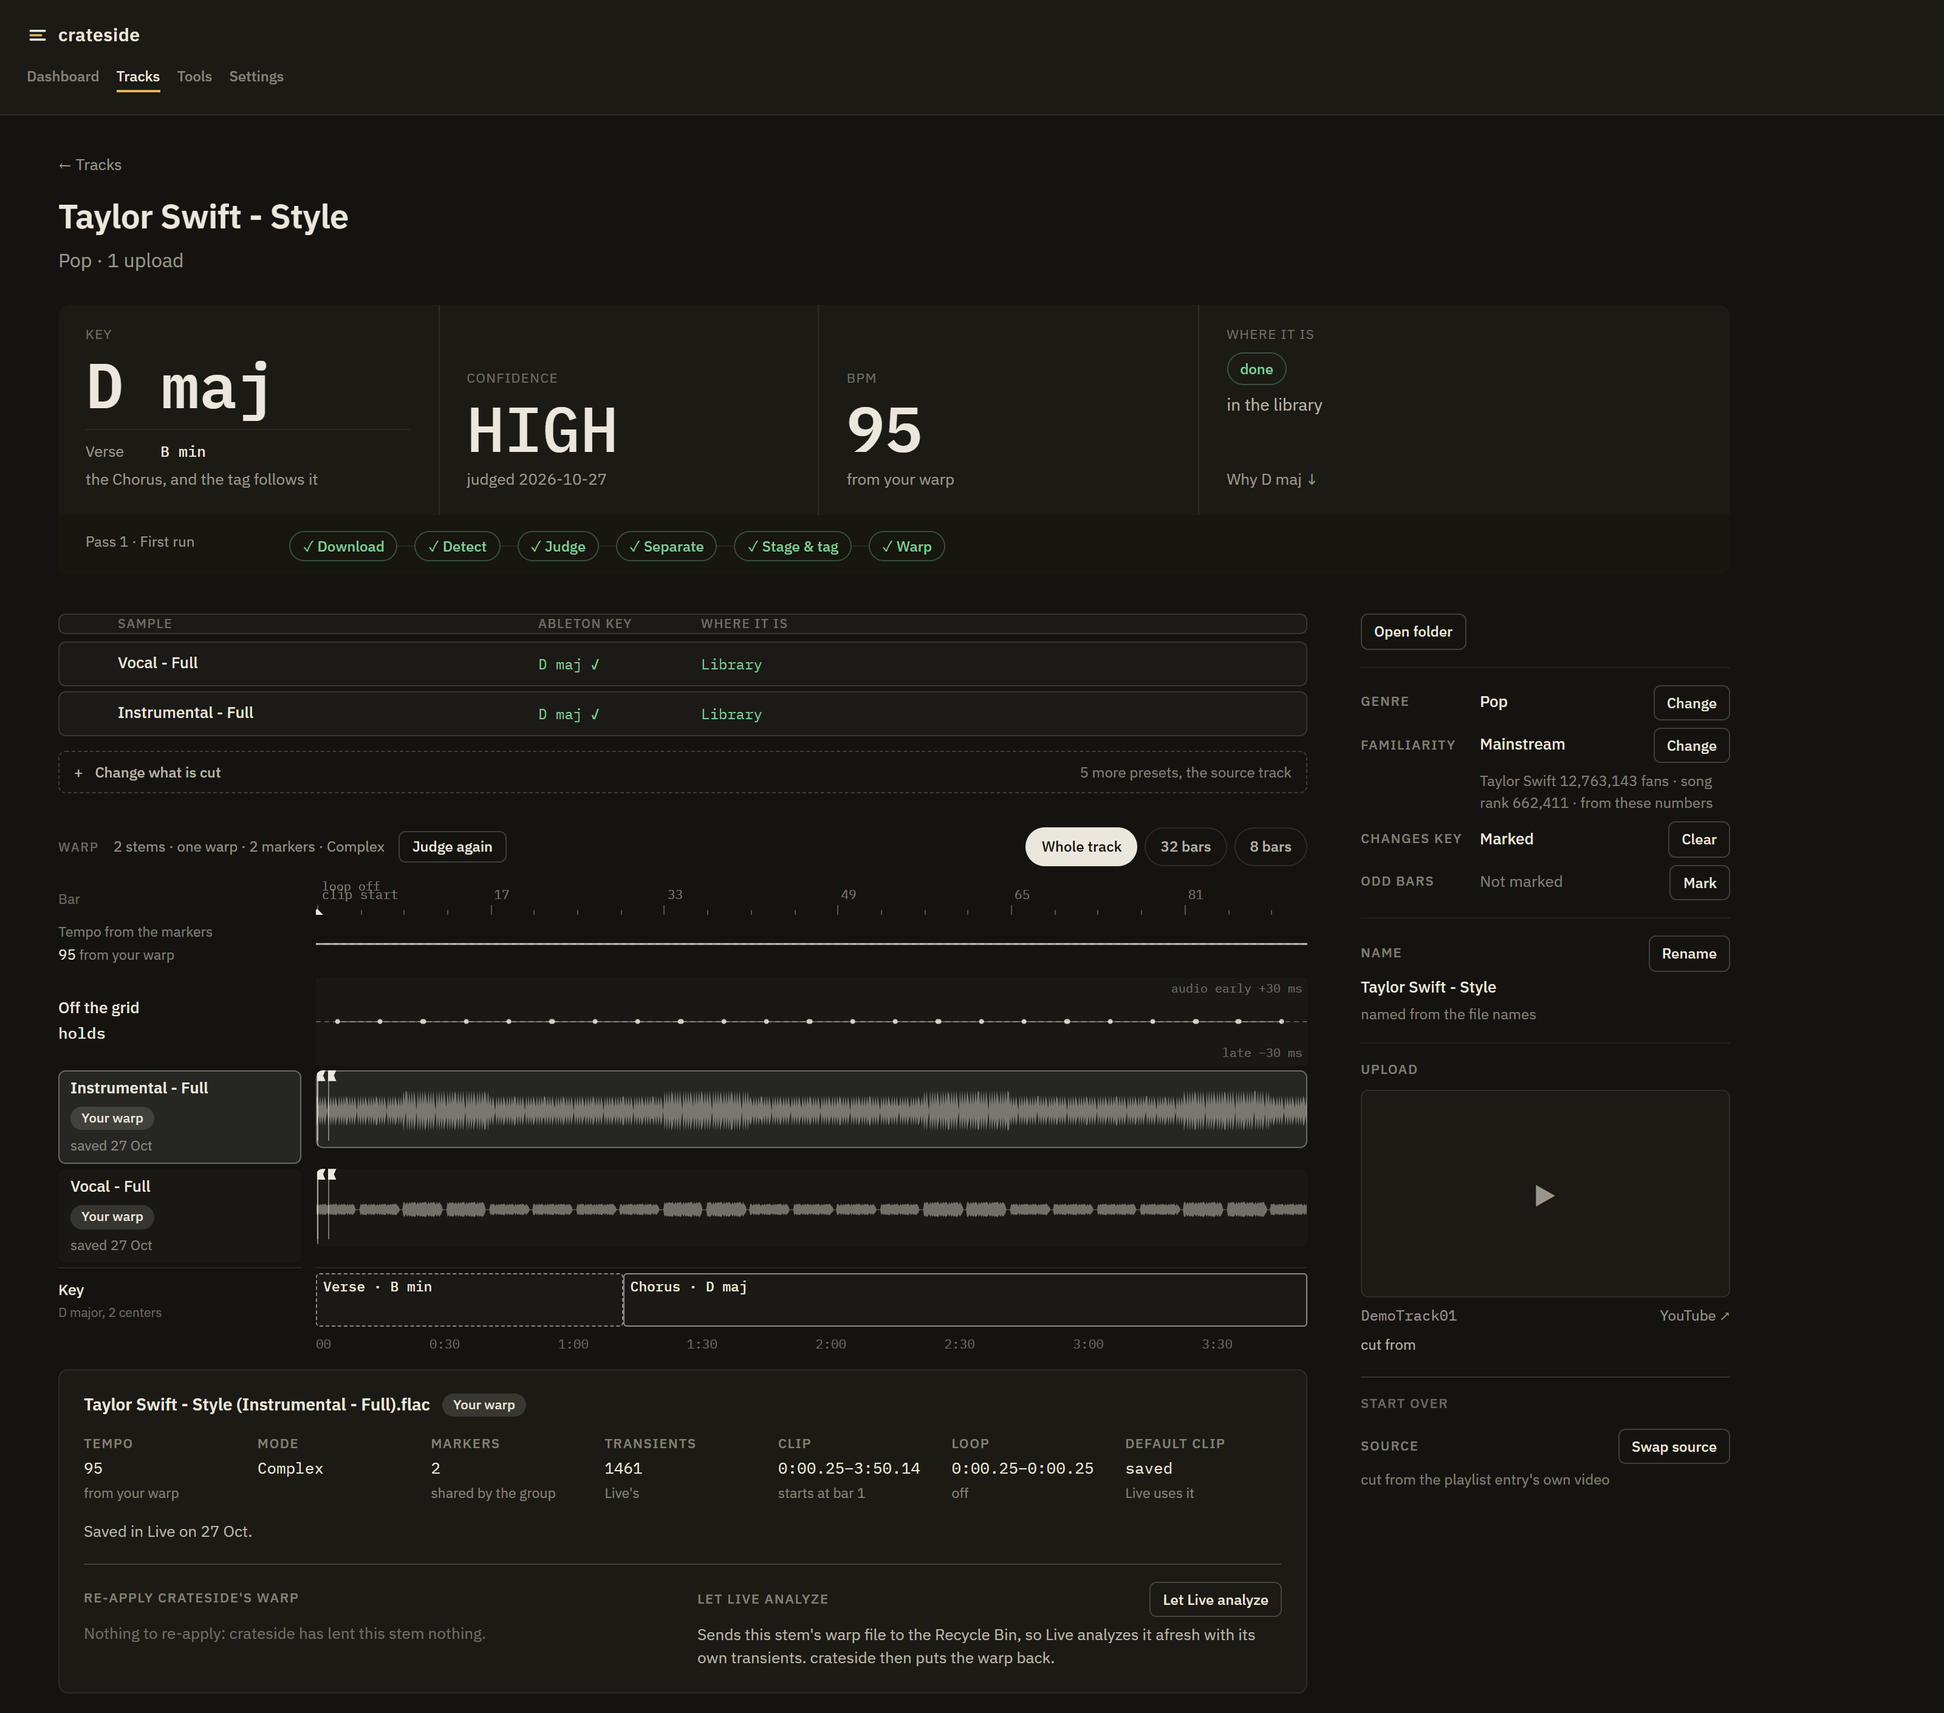
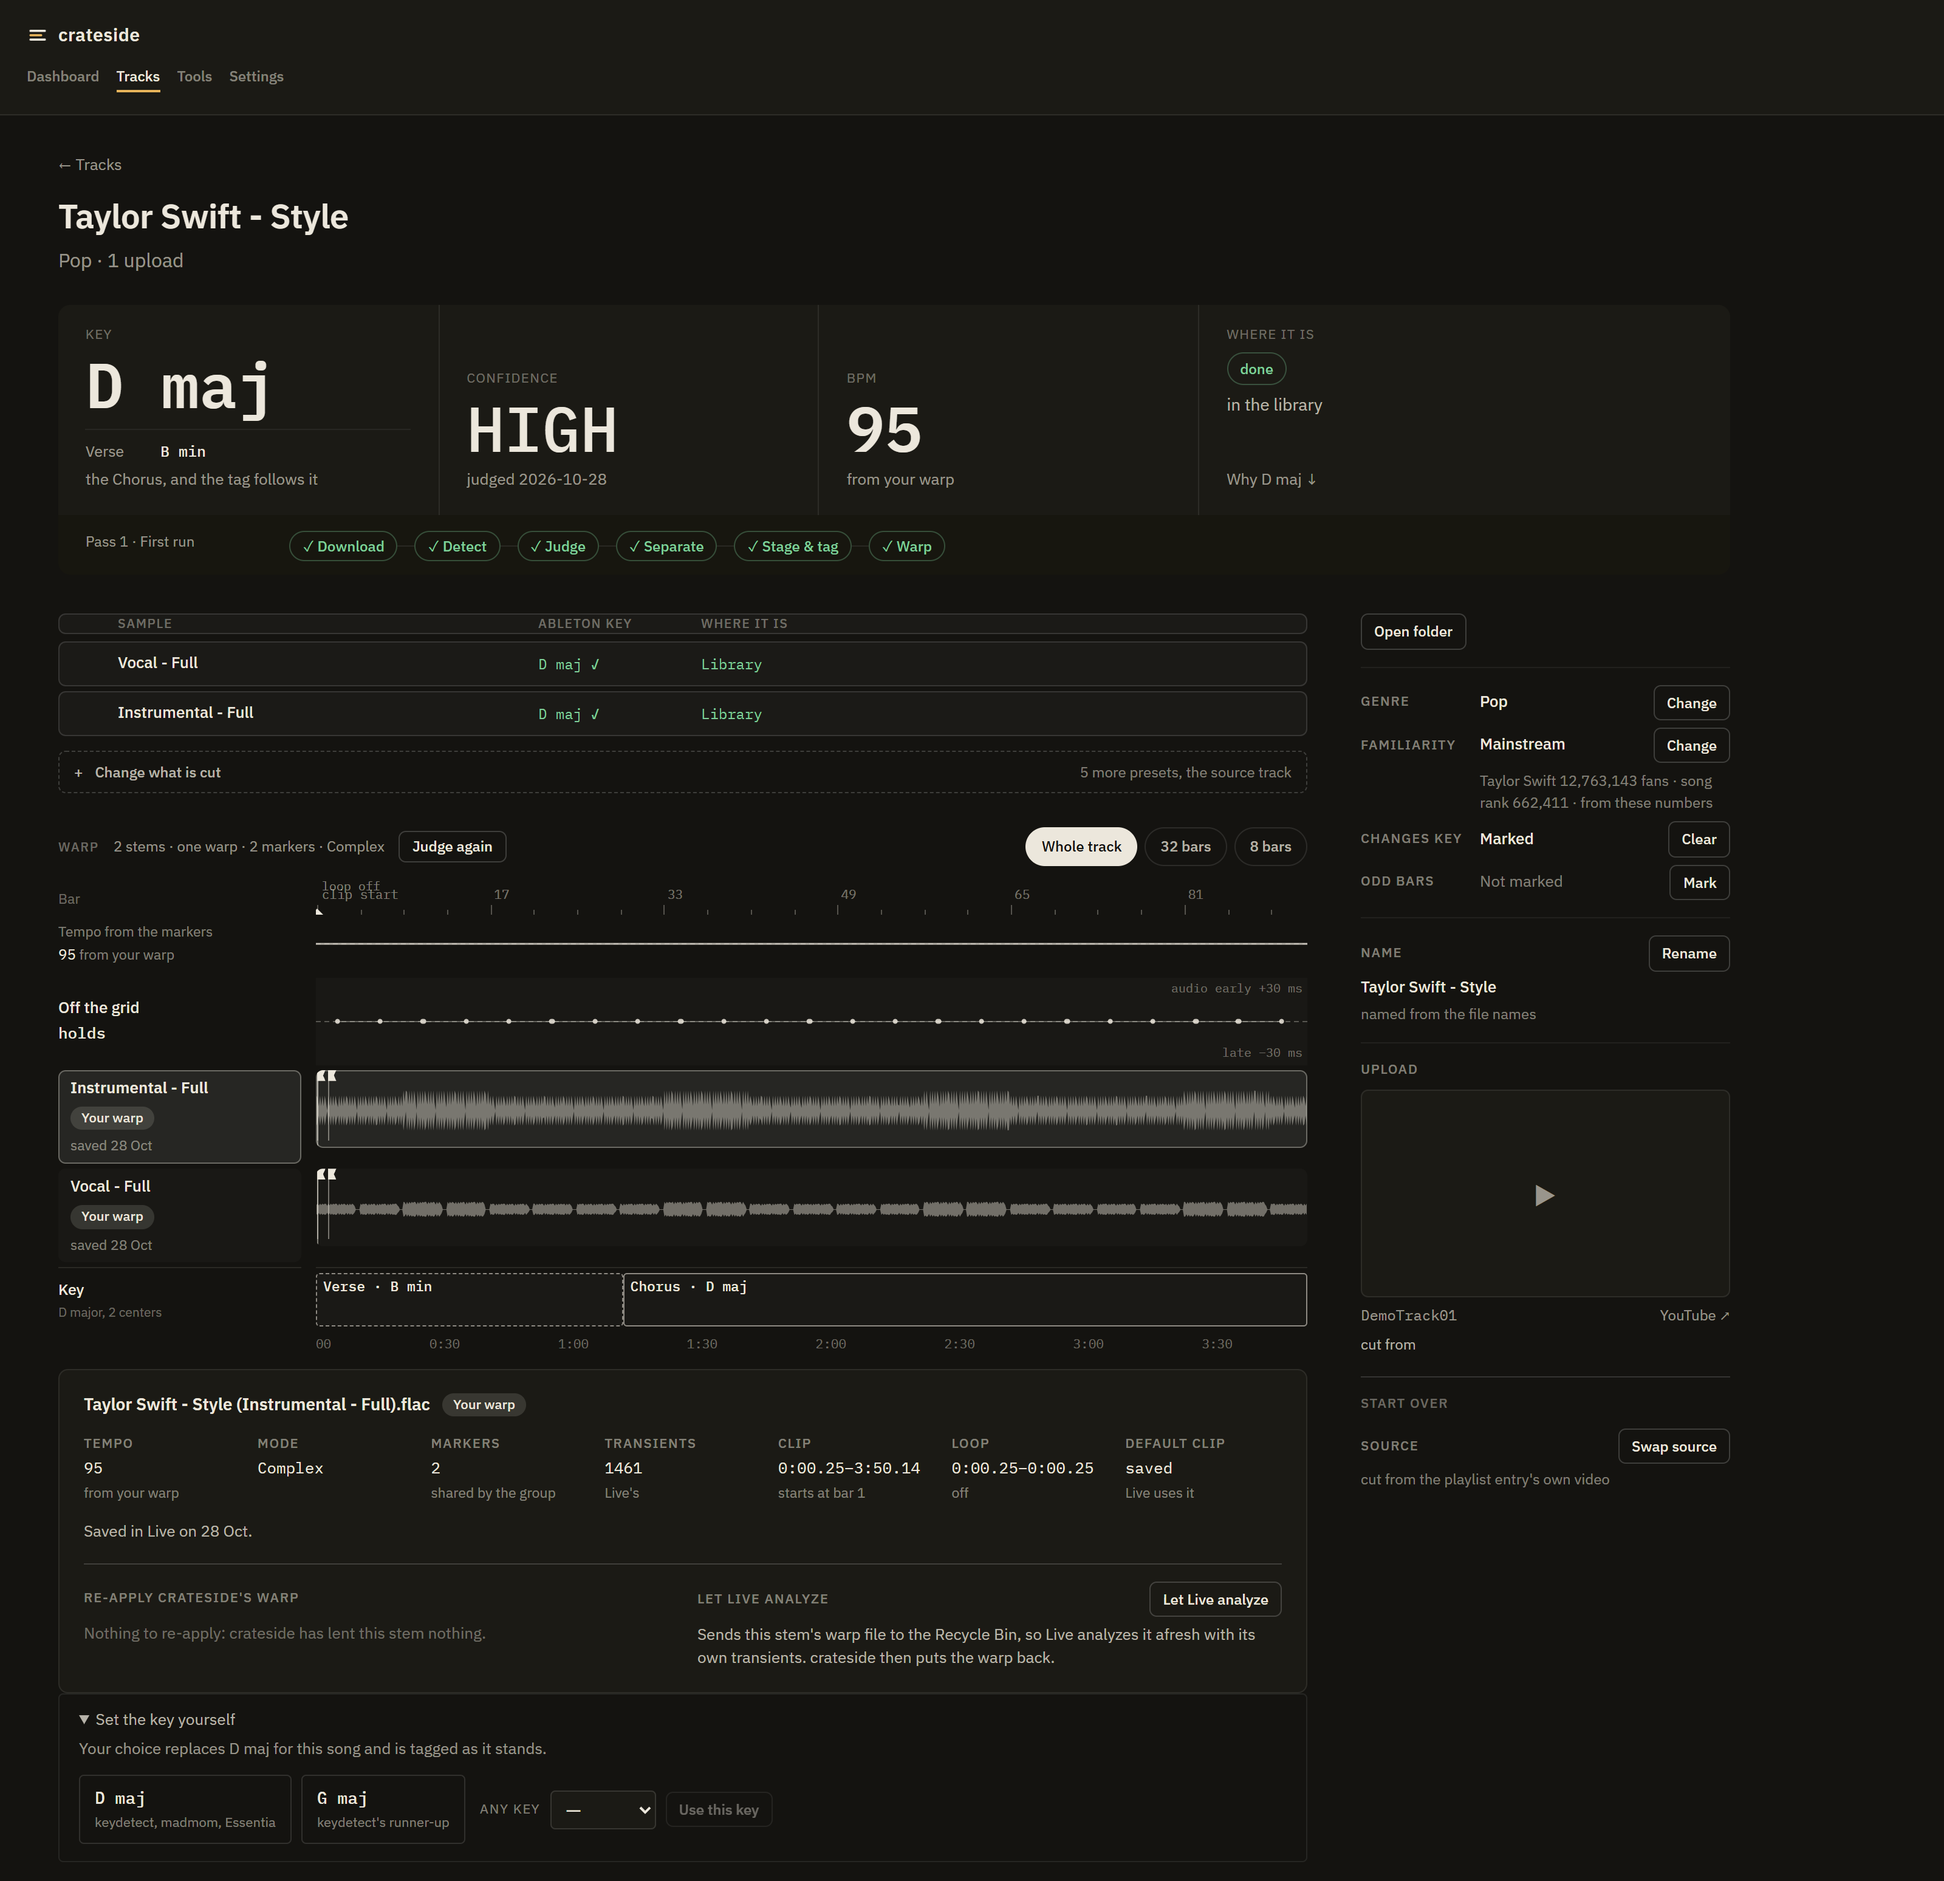
README: rules first and the person as the judge (ADR 0076); the shots retaken with who decided

diff --git a/README.md b/README.md
@@ -14,8 +14,8 @@
 > machine. `master` is the latest; there are no releases yet.
 
 Put songs in a YouTube playlist, or paste their links. crateside works through them unattended:
-it downloads each one, has an LLM agent judge its key, separates a vocal and an instrumental, tags
-them, and stages them in Ableton Live already laid on a beat grid. What is left is the part only a
+it downloads each one, settles its key (by its own rules where the evidence agrees, otherwise by an
+LLM judge or by you), separates a vocal and an instrumental, tags them, and stages them in Ableton Live already laid on a beat grid. What is left is the part only a
 person can do: check the grid, pick the bar the sample starts on, and save it into the library.
 
 It is a Blazor Server app that runs on your own PC, meant to sit on a second monitor next to
@@ -52,9 +52,11 @@ nothing is outstanding. Separation (GPU) and judging (paid tokens) can be paused
    noting whether YouTube served its Premium-quality format.
 3. **Detect** the key with three detectors, and look the song up on Hooktheory, Musicnotes and
    Ultimate Guitar ([below](#how-a-key-is-judged)).
-4. **Judge** the key: an LLM agent weighs that evidence into one verdict with a confidence, or
-   withholds one. Every verdict goes into a SQLite [ledger](docs/ledger.md).
-5. **Separate** on the GPU, once the song has a verdict: by default a full vocal and a full
+4. **Decide** the key: crateside's own rules where the detectors and the pages agree; otherwise an
+   LLM agent weighs the evidence into one verdict with a confidence, or withholds one; with no
+   judge set up, the track waits for you to pick its key on its page. Every verdict goes into a
+   SQLite [ledger](docs/ledger.md) saying who decided it.
+5. **Separate** on the GPU, once the song has a verdict or is waiting for yours: by default a full vocal and a full
    instrumental, plus a drum stem kept only as a warp guide. An instrumental release keeps its
    source as the sample instead.
 6. **Stage** the stems in your Staging folder, which Ableton's browser shows, and **tag** each with
@@ -106,6 +108,13 @@ read off one detector.
   [Ultimate Guitar](https://www.ultimate-guitar.com/) (chord charts), and hands the agent what it
   found. The agent may search further. Sites that publish a machine-detected key (Tunebat and the
   like) are not counted as sources.
+- **Rules first.** Where at least two detectors name a key and every Hooktheory or Musicnotes page
+  found states it, crateside records it HIGH; with no page, all three detectors agreeing (or
+  keydetect and one backer with a strong correlation) gives MEDIUM. Measured against 582 judged
+  songs, the rules settle 60–67% of them and agree with the judge on 97–99% of those
+  ([the note](docs/notes/2026-11-03-what-rules-can-rule-on-without-a-judge.md),
+  [ADR 0076](docs/adr/0076-crateside-rules-first-and-the-person-is-the-judge-of-the-rest.md)).
+  They run whatever judge is set up, so the judge sees only what they leave.
 - **The agent.** A headless [Claude Code](https://claude.com/claude-code) session (`claude -p`)
   reads the evidence, checks the detectors against the chords (does V resolve to the tonic, or is
   the detected tonic really the IV?), and writes a verdict file: HIGH, MEDIUM, LOW or WITHHELD.
@@ -119,6 +128,11 @@ read off one detector.
   A song is judged only once every detector has read it
   ([ADR 0068](docs/adr/0068-a-song-is-judged-only-on-complete-evidence.md)).
 
+- **You.** With no judge set up, a track the rules leave open waits for you: its page lists the
+  keys the detectors and the pages named, and you pick one, or any of the 24. You can set the key
+  of any song the same way. The screen says of every verdict who decided it: judged, ruled by
+  crateside, or your call.
+
 The judge runs on whatever Claude Code is logged in to, or on another Anthropic-compatible endpoint
 set under `Judge:Environment` ([docs/judge.md](docs/judge.md#the-endpoint)). On a Claude
 subscription each track costs about 37k tokens of session start-up, and background judging stops at
@@ -131,8 +145,8 @@ subscription each track costs about 37k tokens of session start-up, and backgrou
 - **Tracks**: one row per song, filtered to *Unfinished*, *In staging*, *In flight*, *Needs
   attention* and more. A row expands to its files, its verdict and why, and its controls: rename,
   swap the upload its stems are cut from, change which stems are cut, or remove it.
-- **Song**: one page per track, with its evidence and its warp. From here you can have it judged
-  again over bars you choose, with a note to the judge and what you hear.
+- **Song**: one page per track, with its evidence and its warp. From here you can pick its key
+  yourself, or have it judged again over bars you choose, with a note to the judge and what you hear.
 - **Tools**: *Partners* (the keys that pair with a song's key, fewest semitones of shift first), a
   re-pitch calculator and a Camelot wheel.
 - **Settings**: folders, the playlist and YouTube access, pausing separation and judging, starter
@@ -153,9 +167,9 @@ subscription each track costs about 37k tokens of session start-up, and backgrou
   `Paths:KeydetectFfmpeg` and `Paths:BeatdetectFfmpeg`, and pins the first build it sees for each
   filter in `%APPDATA%\crateside\builds.json`
   ([ADR 0066](docs/adr/0066-keydetect-has-its-own-pinned-build.md)).
-- **The `claude` CLI on `PATH`, logged in**, or set up for another endpoint
-  ([docs/judge.md](docs/judge.md)). This is required today: separation waits for a verdict, so
-  without a judge nothing gets past detection.
+- **Optional: the `claude` CLI on `PATH`, logged in**, or set up for another endpoint
+  ([docs/judge.md](docs/judge.md)), to judge what the rules leave. Without it (`Judge:Kind` is
+  `None`), those tracks wait for you instead.
 - **Optional: a YouTube API key**, to read a playlist, and an OAuth client, to remove entries from
   it ([docs/secrets.md](docs/secrets.md)). Without them, add tracks by URL on the Tracks page.
 
@@ -166,8 +180,6 @@ For now:
 
 - **Setup is manual.** Everything in Requirements is installed and configured by hand; there is no
   first-run setup yet.
-- **There is no judge-free mode.** Every track goes through the Claude Code judge (on its own login
-  or a configured endpoint) before it is separated.
 - **Intake is YouTube only**: the playlist, or one video URL at a time. A playlist cannot be pasted
   as a URL yet.
 - **It takes over part of Live's browser.** crateside sets Collections 2 to 7 on the files it
